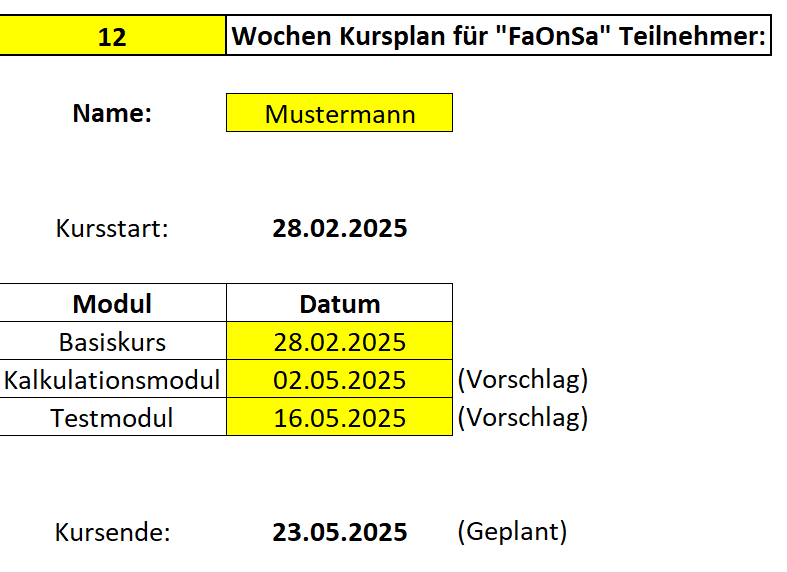
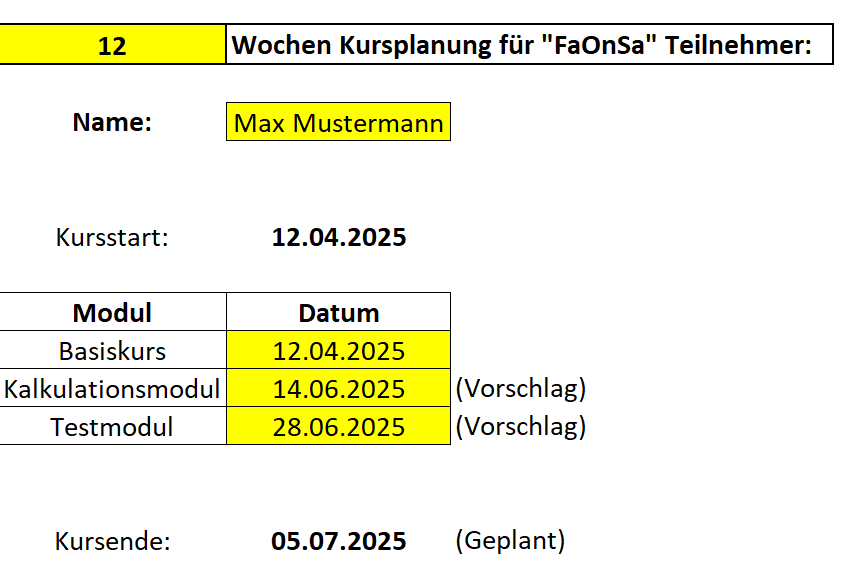
Texte, Preise, Bilder Neu

diff --git a/index.html b/index.html
@@ -260,17 +260,17 @@
                 <p>Nutzen Sie die Gelegenheit, an meinen <strong>Online-Kursen zur Vorbereitung auf die Fachkundeprüfung IHK</strong> teilzunehmen und bereiten Sie sich gezielt auf die Prüfung vor.</p>
                 
                 <p><strong>Kurs-Termine:</strong><br>
-                <b>28.02. / 08.03. / 15.03. / 22.03. / 29.03.</b><br>
-                Die Kurse finden jeweils von <b>10:00 bis 14:00 Uhr</b> oder <b>18:00 bis 22:00 Uhr</b> statt. Wählen Sie den Termin und die Uhrzeit, die am besten in Ihren Zeitplan passen. Weitere Details finden Sie im Bereich <strong>Leistungen</strong>.</p>
+                <b>12.04. / 26.04. / 10.05. / 17.05. / 07.06. / 14.06. /</b><br>
+                Die Kurse finden jeweils von <b>10:00 bis 14:00 Uhr</b> oder <b>18:00 bis 22:00 Uhr</b> statt. Wählen Sie den Termin und die Uhrzeit, die am besten in Ihren Zeitplan passen.<br> 
+                Weitere Details finden Sie im Bereich <strong>Leistungen</strong>.</p>
                 
-                <h3>📝 <strong>Jetzt Anmelden bei FaOnSa & Platz Sichern</strong> 📝</h3>
-                <p>Verpassen Sie nicht die Chance, sich noch heute anzumelden und Ihren Platz zu reservieren!<br> 
-                <b>Aktion!!! Termin für den 28.02.2025 vereinbaren und das Video-Lernpaket im Wert von 20€ Gratis dazu bekommen!</b></p>
+                <h3>📝 <strong>Jetzt Anmelden & Platz Sichern</strong> 📝</h3>
+                <p><b>Verpassen Sie nicht die Chance, sich noch heute anzumelden und Ihren Platz zu reservieren!</b></p>
                 
                 <h3>🚗 <strong>Neu: Fahrservice ab dem 01.07.2025</strong> 🚗</h3>
                 <p>Ab dem 01.07.2025 biete ich einen <strong>Fahrservice</strong> an, der über eine eigens programmierte <strong>Web-App</strong> gebucht werden kann. Weitere Informationen und Details folgen in Kürze – bleiben Sie gespannt!</p>
                 
-                <h3>🎥 <strong>Neu bei FaOnSa: Beratungsvideo</strong> 🎥</h3>
+                <h3>🎥 <strong>Beratungsvideo</strong> 🎥</h3>
                 <p>Ich habe ein informatives <strong>Beratungsvideo</strong> erstellt, das Ihnen weitere Einblicke in meine Dienstleistungen bietet. Schauen Sie es sich an und lassen Sie sich inspirieren!</p>
                 
             <section class="links-container">
@@ -365,8 +365,8 @@
         🔄 <b>Flexibilität:</b> Sie integrieren den Lernprozess in Ihren Alltag, ohne eine volle Woche freinehmen zu müssen.</p>
         
     <p><b><span style="background-color: #007bff; color: white; padding: 5px 10px; border-radius: 50%; font-size: 18px;">4</span> Kursdauer und Aufbau:</b><br>
-        <img src="faonsa-Kursplan.png" alt="Kursplan" width="300" height="auto">   
-        📉 Der 12-Wochen-Plan bietet eine realistische und flexible Möglichkeit zur Prüfungsvorbereitung – besonders geeignet für Berufstätige, die sich nebenbei weiterbilden möchten. Die dargestellten Termine dienen als Beispiel und können individuell angepasst werden, insbesondere der Start des Basiskurses.<br>
+        <img src="faonsa-Kursplan.png" alt="Kursplan" width="300" height="auto"><br>   
+        <p>📉 Der 12-Wochen-Plan bietet eine realistische und flexible Möglichkeit zur Prüfungsvorbereitung – besonders geeignet für Berufstätige, die sich nebenbei weiterbilden möchten. Die dargestellten Termine dienen als Beispiel und können individuell angepasst werden, insbesondere der Start des Basiskurses.<br></p>
         📝 Der <b>Basiskurs</b> besteht aus drei aufeinander aufbauenden Modulen:<br>
         📖 <b>Grundlagenmodul:</b> Einführung in die Konzepte und rechtlichen Rahmenbedingungen des Personenverkehrs.<br>
         📚 <b>Aufbaumodul:</b> Vertiefung der Inhalte aus dem Grundlagenmodul.<br>
@@ -376,8 +376,7 @@
     <p>⚠ <b>Hinweis:</b> Der Basiskurs ist nur als Ganzes buchbar, um eine umfassende Vorbereitung zu gewährleisten. Dauer jeweils nur 1h pro Kurs!<br></p>
         
     <p><b><span style="background-color: #007bff; color: white; padding: 5px 10px; border-radius: 50%; font-size: 18px;">5</span> Excel-Tool</b> zur Berechnung der Kosten.<br>
-        🎁 Als <b>Bonus</b> nach erfolgreicher Teilnahme an allen kostenpflichtigen Modulen im Basiskurs erhalten Sie ein <b>kostenloses</b> Excel-Tool zur Berechnung Ihrer laufenden Kosten,<br>
-        📉 zur Bestimmung des km-Tarifs sowie anderer wichtiger Berechnungen.</p>
+        🎁 Als <b>Bonus</b> nach erfolgreicher Teilnahme an allen kostenpflichtigen Modulen im Basiskurs erhalten Sie ein <b>kostenloses</b> Excel-Tool zur Berechnung Ihrer laufenden Kosten, 📉 zur Bestimmung des km-Tarifs sowie anderer wichtiger Berechnungen.</p>
         
             <section class="links-container">            
                 <!-- YouTube Link -->
@@ -393,7 +392,8 @@
                 
     <p><b><span style="background-color: #007bff; color: white; padding: 5px 10px; border-radius: 50%; font-size: 18px;">6</span> Kalkulations- und Berechnungsmodul (optional):</b><br>
         In diesem Modul lernen Sie, wie Sie einfache <b>Kostenkalkulationen</b> erstellen und Tarife berechnen. Themen wie <b>Fahrzeugkosten, Reifenkosten, Kraftstoffkosten, Nutzungsausfall, Rentabilität, Tarifberechnung, Verschuldungsgrad, Liquidität, MwSt, Finanzierung, Abschreibung, Kassenbuch und Lohnkosten</b>
-        werden anhand eines Beispiels behandelt, und Sie bekommen zu jedem Thema diese auch auf Wunsch als <b>PDF-Anleitung.</b> Zu jedem Themengebiet erhalten Sie in diesem Modul außerdem jeweils eine Übungsaufgabe im <b>PDF-Format.</b></p>
+        werden anhand eines Beispiels behandelt, und Sie bekommen zu jedem Thema diese auch auf Wunsch als <b>PDF-Anleitung.</b><br>
+        Zu jedem Themengebiet erhalten Sie in diesem Modul außerdem jeweils eine Übungsaufgabe im <b>PDF-Format.</b></p>
                 
     <p><b><span style="background-color: #007bff; color: white; padding: 5px 10px; border-radius: 50%; font-size: 18px;">7</span> Testmodul (optional):</b><br>
         Nach Abschluss der Module können Sie das Testmodul absolvieren. Dieses Modul <b>simuliert</b> eine Prüfung mit <b>40 Fragen</b> und bietet eine umfassende Nachbesprechung mit detaillierter Rückmeldung. Ideal, um Ihre Prüfungskompetenz zu überprüfen.</p>
@@ -410,13 +410,14 @@
         ✅ <b>Automatisierte Testgenerierung</b><br>
         Jeder Test wird individuell für Sie erstellt, um eine abwechslungsreiche und umfassende Vorbereitung zu gewährleisten. Diese Tests ermöglichen eine flexible Vorbereitung von zu Hause aus und simulieren die Prüfungsbedingungen realistisch.<br>
 
-        💡 <b>NEU:</b> Optional buchbares Videopaket für <b>20€!</b><br>
+        💡 <b>NEU:</b><br>
+        Optional buchbares Videopaket für <b>20€!</b><br>
         <b>Zusätzlich</b> zu den Tests können Sie ein exklusives <b>Videopaket</b> mit 30 Videos buchen. <b>Jedes</b> Video enthält <b>10 Prüfungsfragen</b>, basierend auf meinem umfangreichen <b>Fragenkatalog</b>.<br>
 
         📂 <b>Inhalt des Videopakets:</b><br>
         - Zugang zu <b>30 Videos</b> über Dropbox<br>
         - Insgesamt <b>300</b> Prüfungsfragen als Video<br>
-        - <b>Musterlösungen</b> als PDF-Datei<br>
+        - <b>Musterlösungen</b> als PDF-Datein<br>
 
         Das Videopaket ist eine <b>perfekte Ergänzung</b> zum Testgenerator und hilft Ihnen, sich noch gezielter auf die Fachkundeprüfung vorzubereiten.<br>
 
@@ -442,10 +443,10 @@
             </section> 
 
     <p><b><span style="background-color: #007bff; color: white; padding: 5px 10px; border-radius: 50%; font-size: 18px;">9</span> Kostenvorteil:</b> Als Kleinunternehmer biete ich Ihnen einen <b>günstigeren Preis</b>, da ich <b>keine</b> Mehrwertsteuer berechnen muss.<br>
-        Der <b>Gesamtpreis</b> für den kompletten Kurs (Alle 5 Module, Handout im Ordner, WhatsApp-Support) beträgt nur <b>235,69€</b> (zuzüglich Lehrbuch als eBook im Handel erhältlich).</p>
+        Der <b>Gesamtpreis</b> für den kompletten Kurs (Alle 5 Module, Handout im Ordner, WhatsApp-Support, Lernvideos) beträgt nur <b>435,69€</b> (zuzüglich Lehrbuch als eBook im Handel erhältlich).</p>
                 
             <img src="faonsa-Preis_2025.png" alt="Preise_Bild" width="315" height="auto">
-            <div style="background-color: #ff9800; color: #ffffff; padding: 10px; text-align: center; font-weight: bold;">Aktion: 20% Rabatt auf alle Module bei Buchung im Premium-Paket! Code: Premium</div>
+            <div style="background-color: #ff9800; color: #ffffff; padding: 10px; text-align: center; font-weight: bold;">Aktion: Achten Sie auf verschiedene Aktionen !!!</div>
 
     <p><b><span style="background-color: #007bff; color: white; padding: 5px 10px; border-radius: 50%; font-size: 18px;">10</span> *NEU* Mündliche Prüfungssimulationsmodul:</b><br>
         Bereiten Sie sich optimal auf Ihre <b>mündliche IHK-Prüfung</b> im Taxi- und Mietwagenverkehr vor!<br> 
@@ -457,7 +458,8 @@
                 
             <b>📝 Ergebnis & Besprechung:</b> Im Anschluss erhalten Sie ein ausführliches Feedback und Verbesserungsvorschläge.<br>
                 
-            <b>🎁 Bonus:</b> Als zusätzliche Unterstützung erhalten Sie eine Anleitung und einen <b>2-Wochen-Lernplan</b> als PDF.</p>
+            <b>🎁 Bonus:</b><br> 
+            Als zusätzliche Unterstützung erhalten Sie eine Anleitung und einen <b>2-Wochen-Lernplan</b> als PDF.</p>
                 
             <p><b>Ihre Vorteile:</b></p>
                 
@@ -467,7 +469,7 @@
                 
             <b>💡 Wertvolle Tipps</b> und Hilfsmittel für Ihre Vorbereitung.<br>
                 
-            <p><b>Jetzt</b> diesen Online-Kurs <b>einzeln buchen</b> für nur <b>35€ pro Stunde!</b><br>
+            <p><b>Jetzt</b> diesen Online-Kurs <b>einzeln buchen</b> für nur <b>60€ pro Stunde!</b><br>
                 
             <b>Profitieren Sie von meinem Mündliche Prüfungssimulationsmodul und sichern Sie sich Ihren Erfolg. Kontaktieren Sie mich noch heute!</b></p>
                 
@@ -610,10 +612,10 @@ Für die Teilnahme am Kurs benötigen Sie einen <b>PC, Laptop, Tablet</b> (nicht
         <li><strong>Online-Kurse zur Vorbereitung auf die Fachkundeprüfung<br>
         In meinen Online-Kursen biete ich Ihnen die Möglichkeit, Wissen bequem von zu Hause aus zu erwerben und direkt anzuwenden.
 
-        <p>Basiskurs bestehend aus Grundlagen-, Aufbau- und Fachmodul: Preis nur 35€ pro Modul (Gesamtpreis: 105€)<br>
-        Kalkulations- und Berechnungsmodul: Preis nur 35€<br>
-        Testmodul: Preis nur 35€<br>
-        Mündliche Prüfungssimulationsmodul: Preis nur 35€<br></p>
+        <p>Basiskurs bestehend aus Grundlagen-, Aufbau- und Fachmodul: Preis nur 60€ pro Modul (Gesamtpreis: 180€)<br>
+        Kalkulations- und Berechnungsmodul: Preis nur 60€<br>
+        Testmodul: Preis nur 60€<br>
+        Mündliche Prüfungssimulationsmodul: Preis nur 60€<br></p>
         (Dauer pro Modul: 1h)</strong></li>
         <p></p>
         <img src="faonsa-Grundlagenmodul_Neu.png" alt="Grund" width="250" height="auto">
@@ -627,26 +629,30 @@ Für die Teilnahme am Kurs benötigen Sie einen <b>PC, Laptop, Tablet</b> (nicht
         <img src="faonsa-Testtrainer_NEU.png" alt="Testtrainer" width="250" height="auto">
         <img src="faonsa-Test_BILD_NEU.png" alt="Test_Bild" width="250" height="auto">
         <p></p>
+        <li><strong>Lernvideos: Preis nur 20,00€<br>
+        <b>Inhalt des Videopakets:</b><br>
+        - Zugang zu <b>30 Videos</b> über Dropbox<br>
+        <p></p>
         <li><strong>WhatsApp-Support im Gruppenchat<br>
-        Laufzeit für 3 Monate: Preis nur 20€</strong></li>
+        Laufzeit für 3 Monate: Preis nur 100€</strong></li>
         Mein WhatsApp-Support bietet Ihnen schnelle Hilfe und Antworten in einem Gruppenchat, in dem auch andere Teilnehmer Ihre Fragen während der Laufzeit gemeinsam beantworten können.
         <p></p>
-        <li><strong>Handout im Ordner (Einzeln auch Erhältlich): Preis nur 40,69€ inkl. Versand</strong></li>
+        <li><strong>Handout im Ordner (Einzeln auch Erhältlich): Preis nur 45,69€ inkl. Versand</strong></li>
         Sie erhalten ein umfassendes Handout, das alle wichtigen Gesetze zusammenfasst. Für jedes der <b>30</b> relevanten Gesetze stehen jeweils <b>20</b> Fragen zur Verfügung – insgesamt also <b>600</b> Fragen zum Lernen. Außerdem erhalten Sie 10 verschiedene Themen zur Kalkulationen und Berechnungen! 
         <p></p>
         <img src="faonsa-Bild_Handout.png" alt="Hanout" width="250" height="auto">
         <p></p>
         <p></p>
         <li><strong>Fertige Homepage<br>
-        (Kopie meiner Website): 99€</strong><br>
+        (Kopie meiner Website): 450€</strong><br>
         Erhalten Sie eine komplette Kopie meiner Website, die Sie als Vorlage für Ihre eigene Nutzung verwenden können.</li>
         <p></p>
         <li><strong>Eigene Homepage<br>
-        Erstellung und Beratung: 150€</strong><br>
+        Erstellung und Beratung: 750€</strong><br>
         Ich helfen Ihnen bei der Erstellung Ihrer eigenen Homepage und biete individuelle Beratung für Ihre Bedürfnisse.</li>
         <p></p>
         <li><strong>Pflege und Wartung der Homepage<br>
-        (Laufzeit 1 Jahr): 50€</strong><br>
+        (Laufzeit 1 Jahr): 150€</strong><br>
         Meine Dienstleistung zur Pflege und Wartung Ihrer Homepage stellt sicher, dass alles reibungslos läuft und stets aktuell bleibt.</li>
         <p></p>
         <li><strong>Automatisierungslösungen für SAP mit Excel-Makros:</strong><br>
